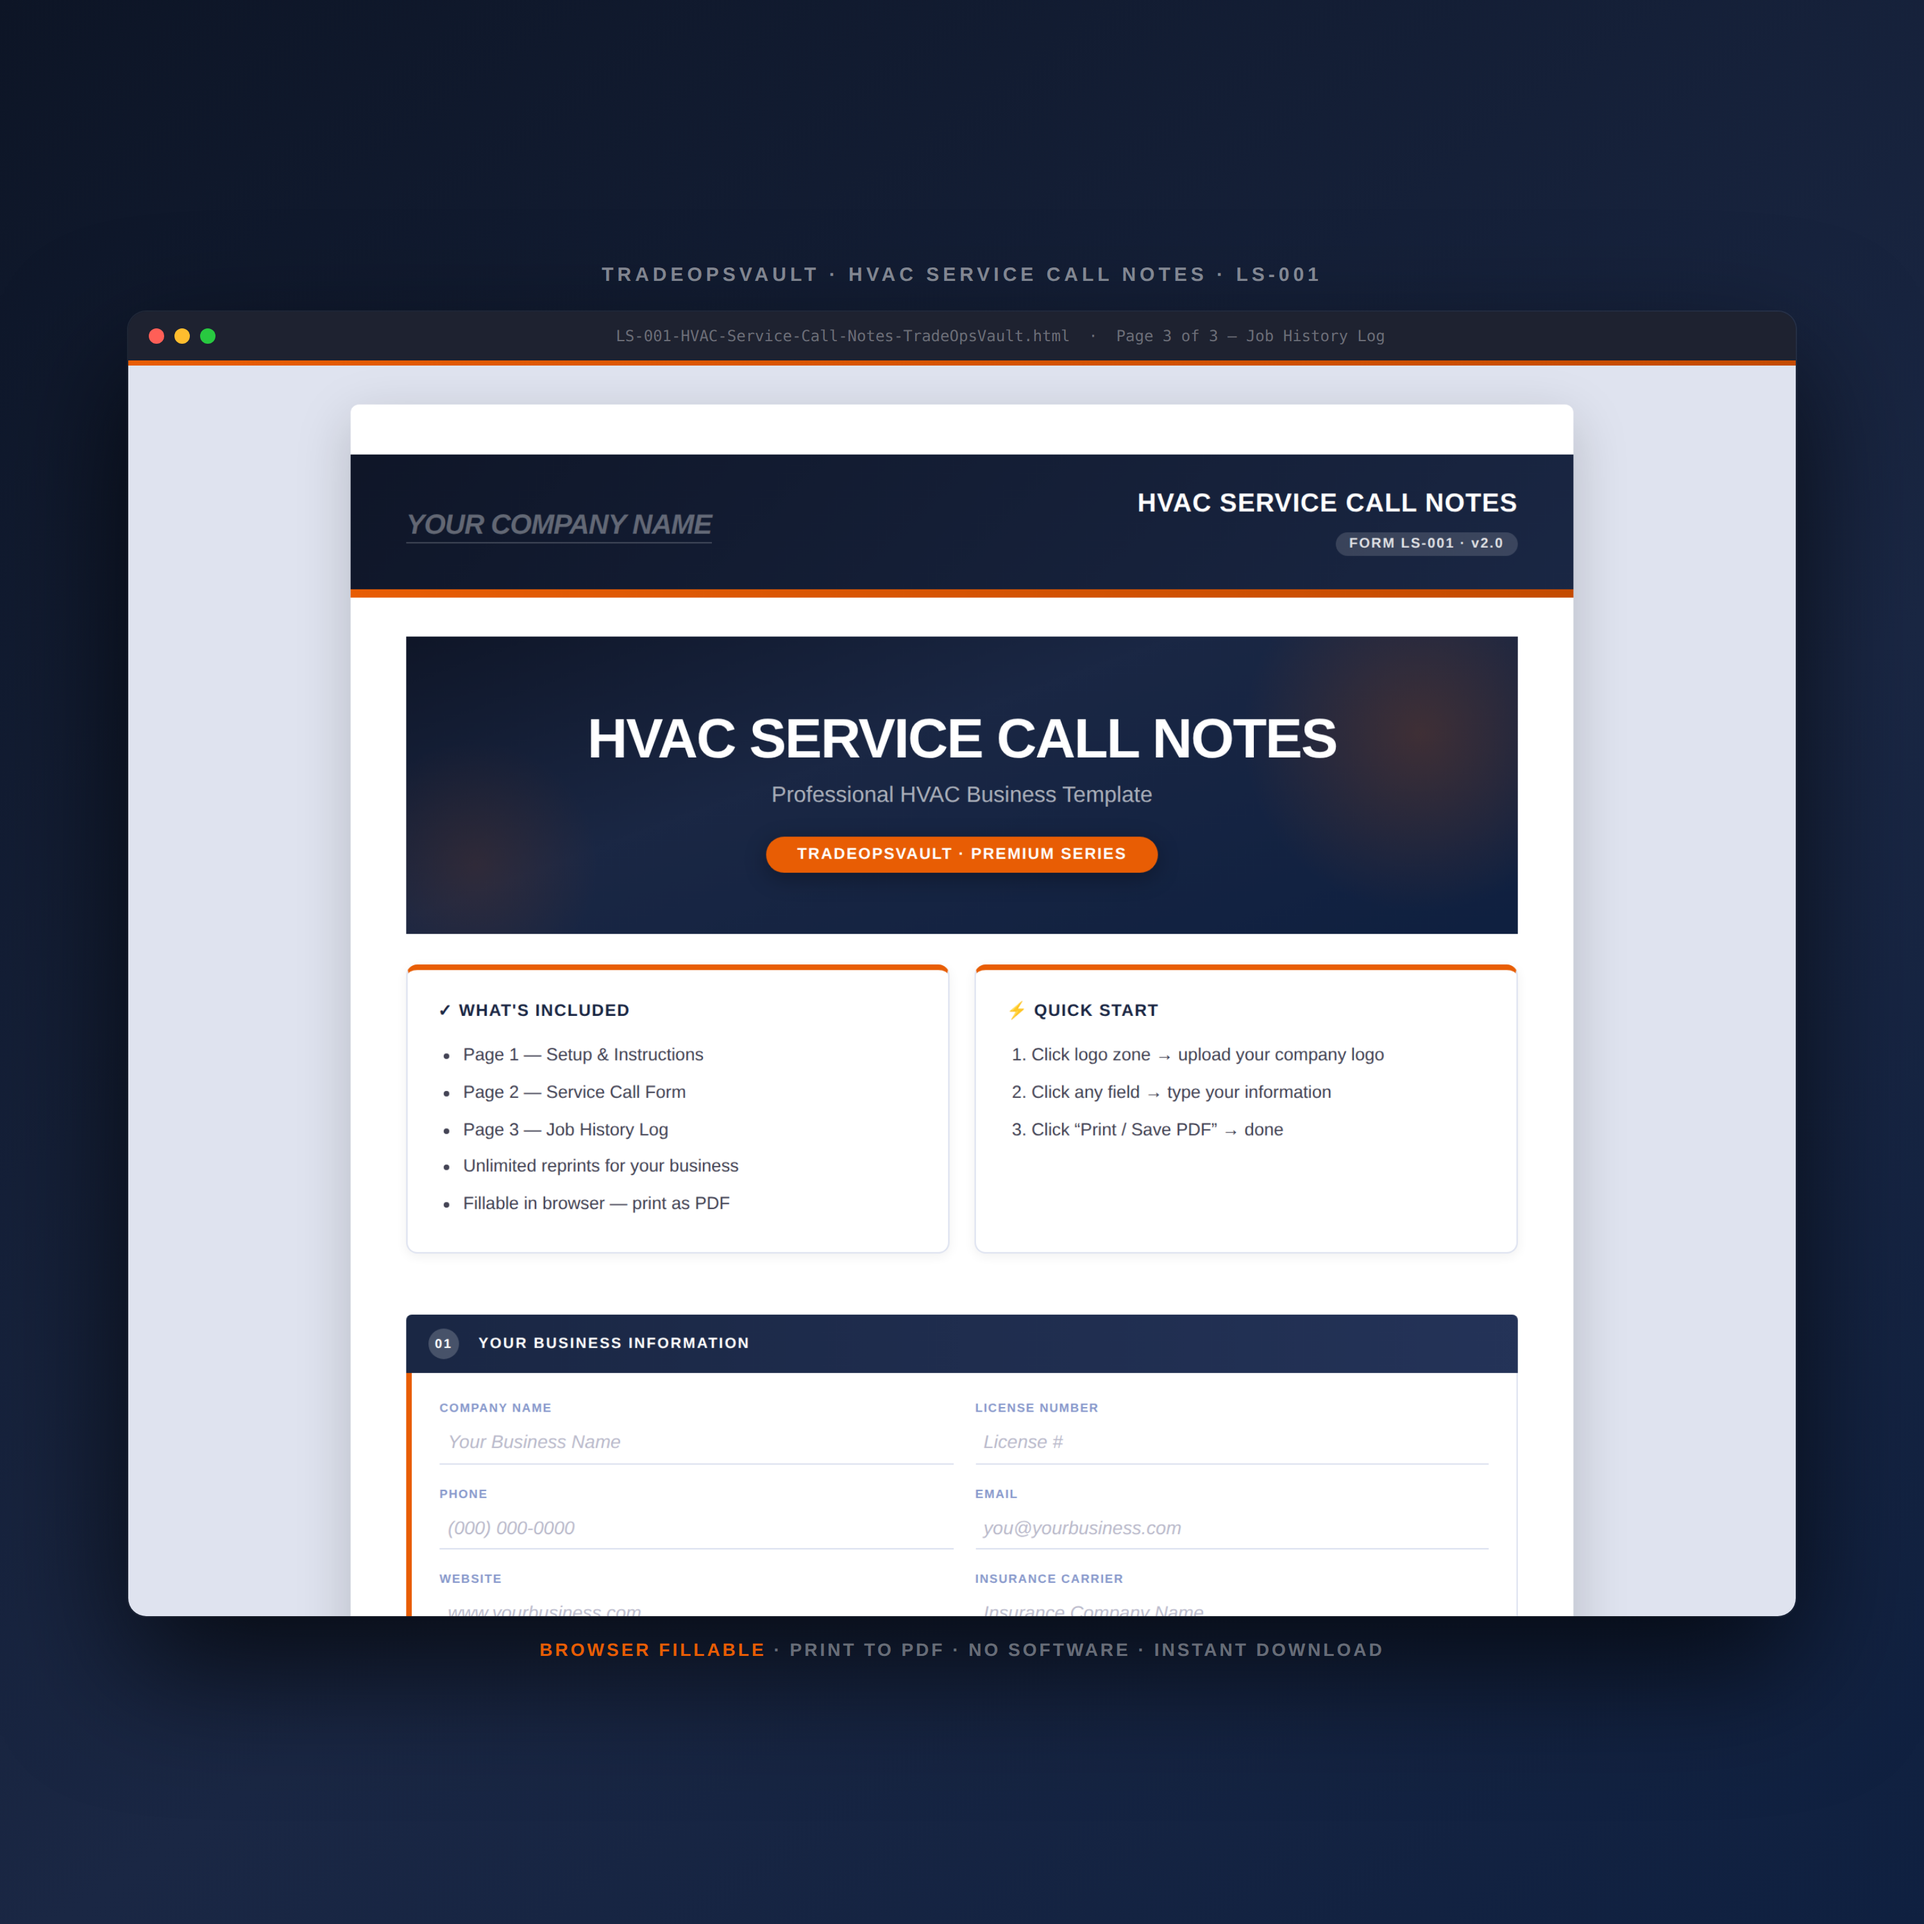
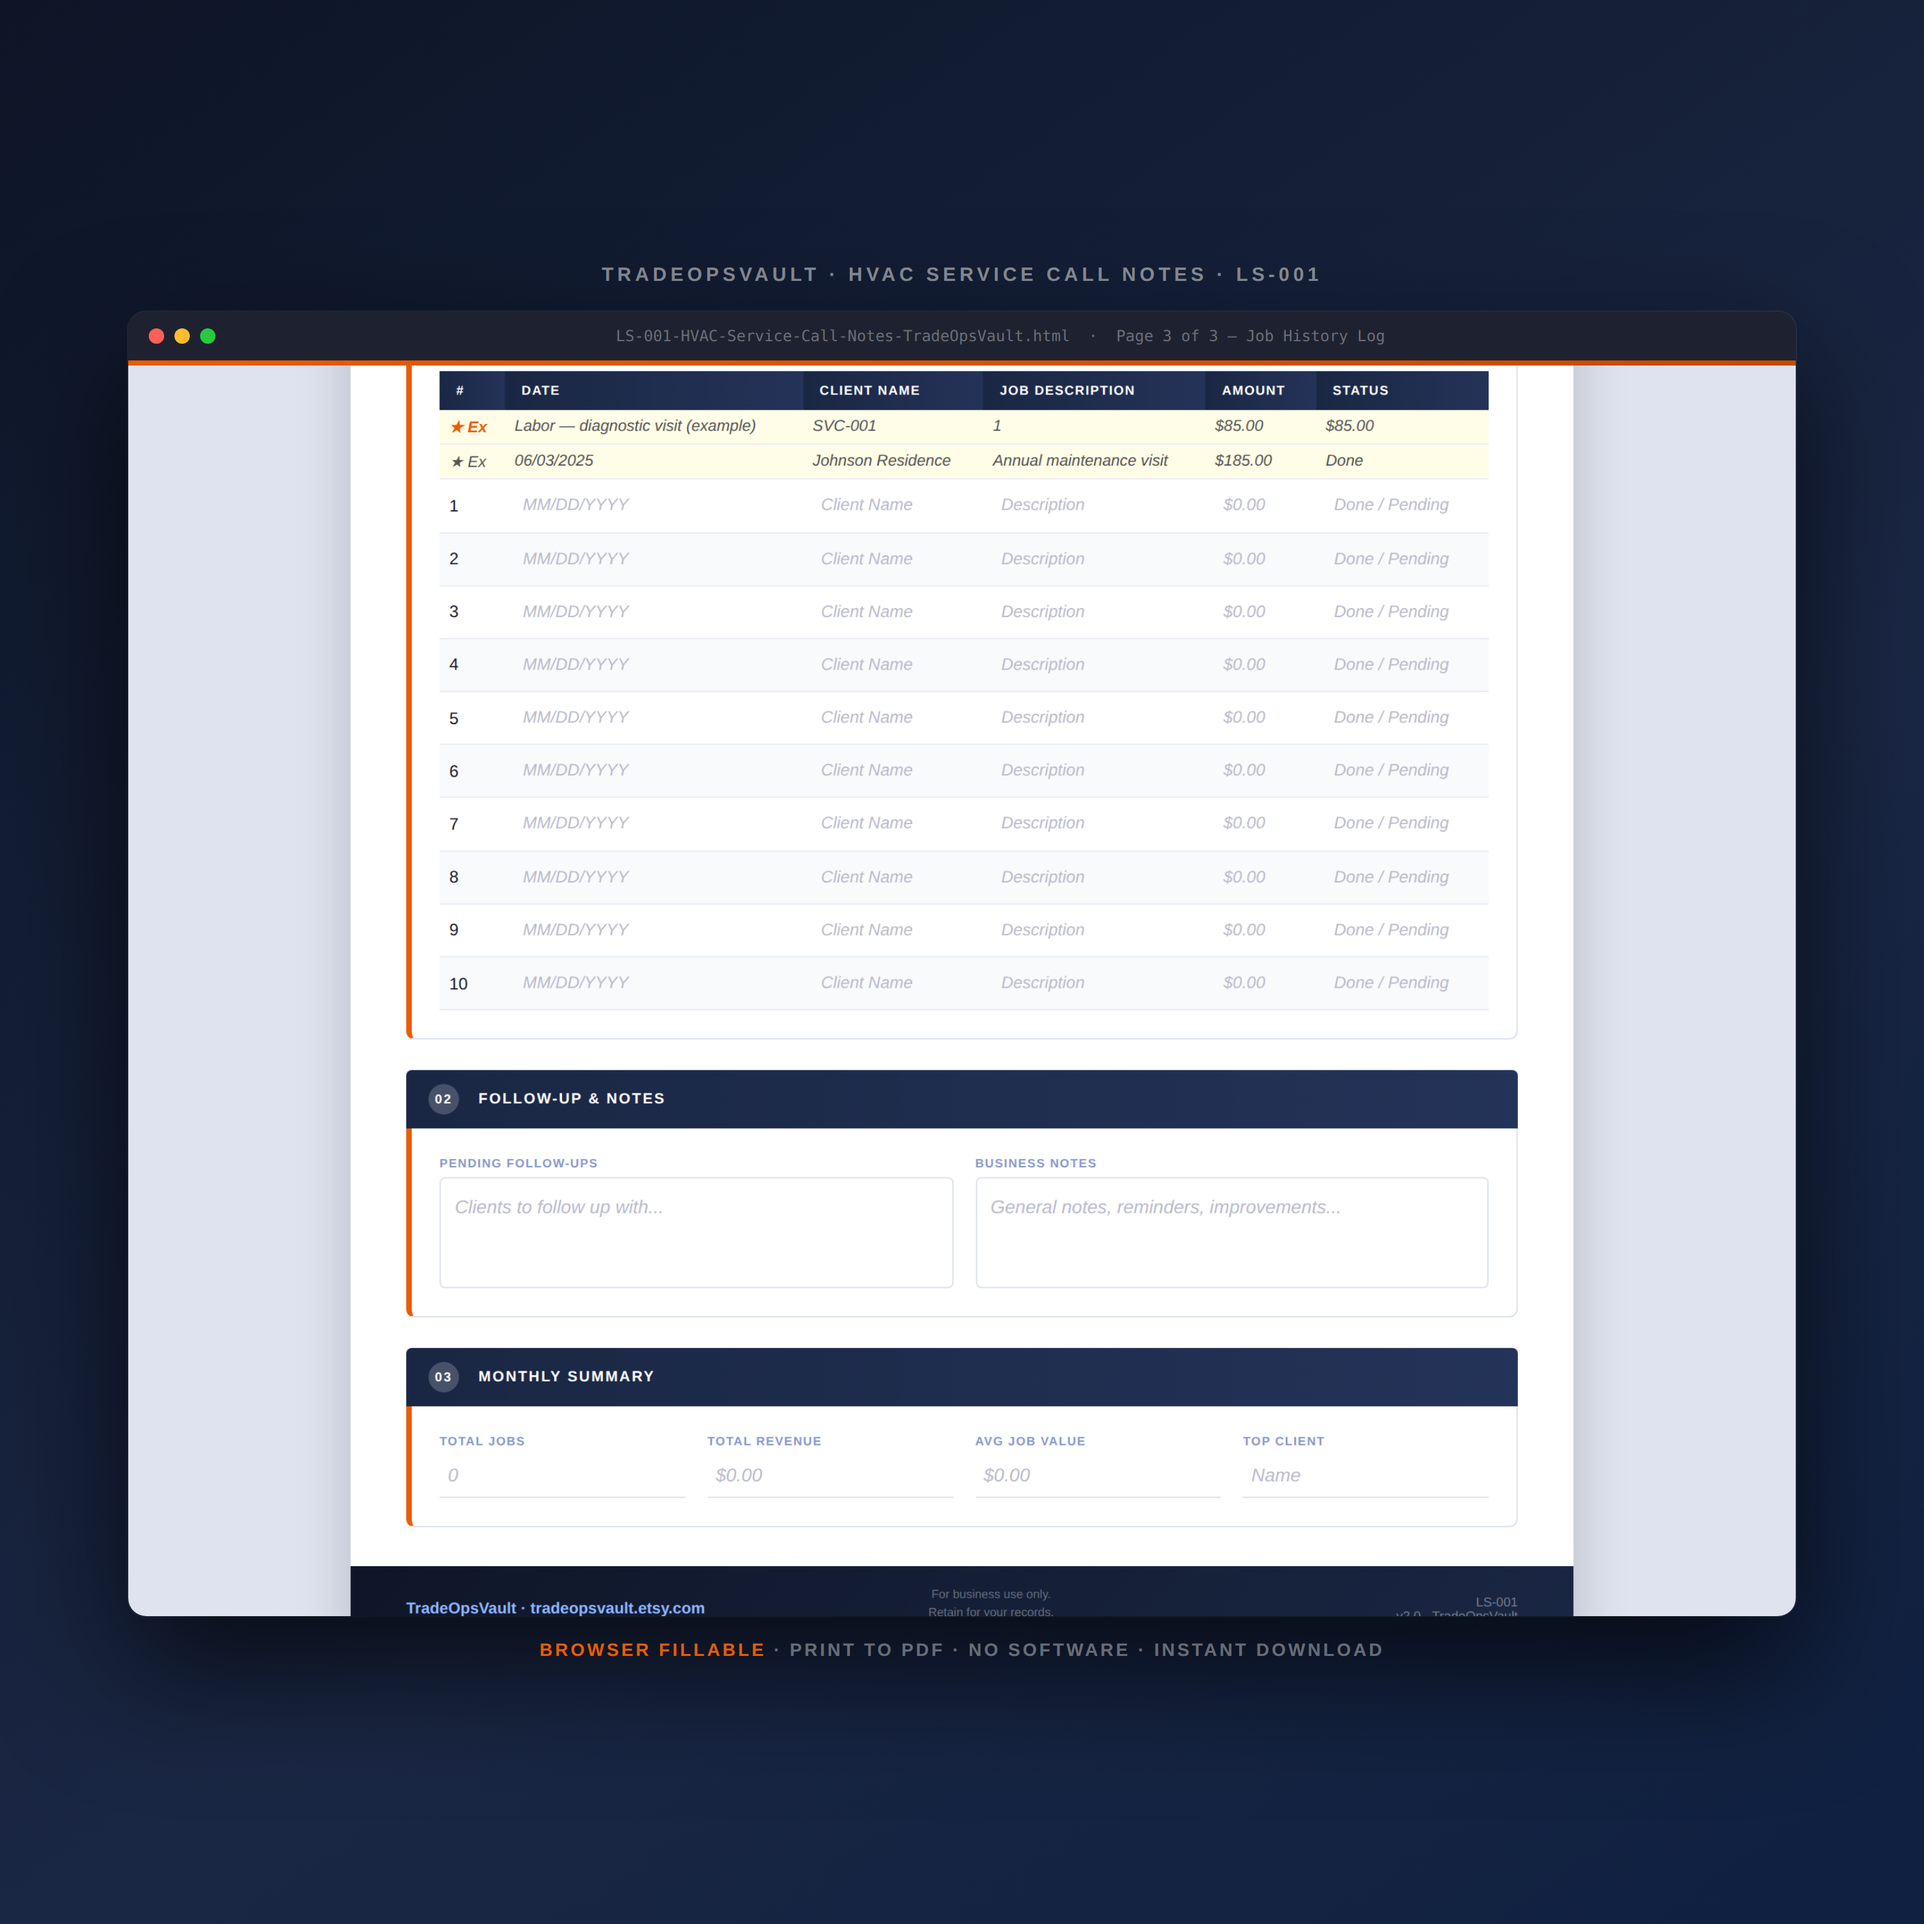
Fix clip y-coordinate to capture correct page sections
https://claude.ai/code/session_01SpcRtwkMxSh8JkinpPGF4p

Changed region(s): [[0.155, 0.186, 0.837, 0.651], [0.186, 0.682, 0.837, 0.837]]

diff --git a/generate-mockups.js b/generate-mockups.js
@@ -37,11 +37,10 @@ async function generate() {
     const actualY = await page.evaluate(() => window.scrollY);
     console.log(`  scrolled to ${actualY}`);
 
-    // Capture the visible viewport after scroll
+    // Capture the correct section of the full page
     const raw = await page.screenshot({
       type: 'png',
-      fullPage: false,
-      clip: { x: 0, y: 0, width: 1200, height: s.h },
+      clip: { x: 0, y: s.y, width: 1200, height: s.h },
     });
 
     // Wrap it in a branded frame using a second page
